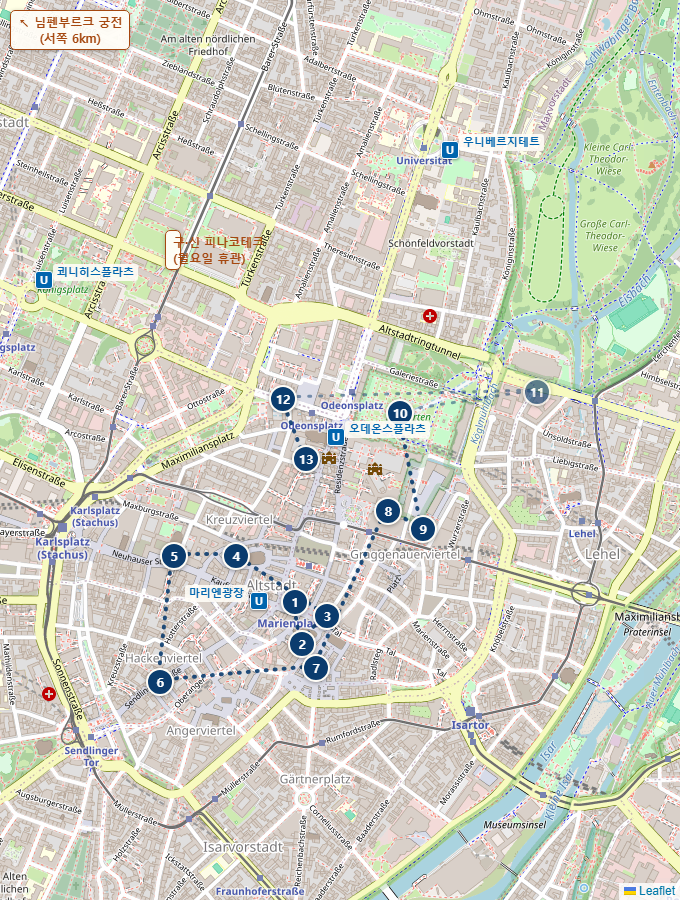
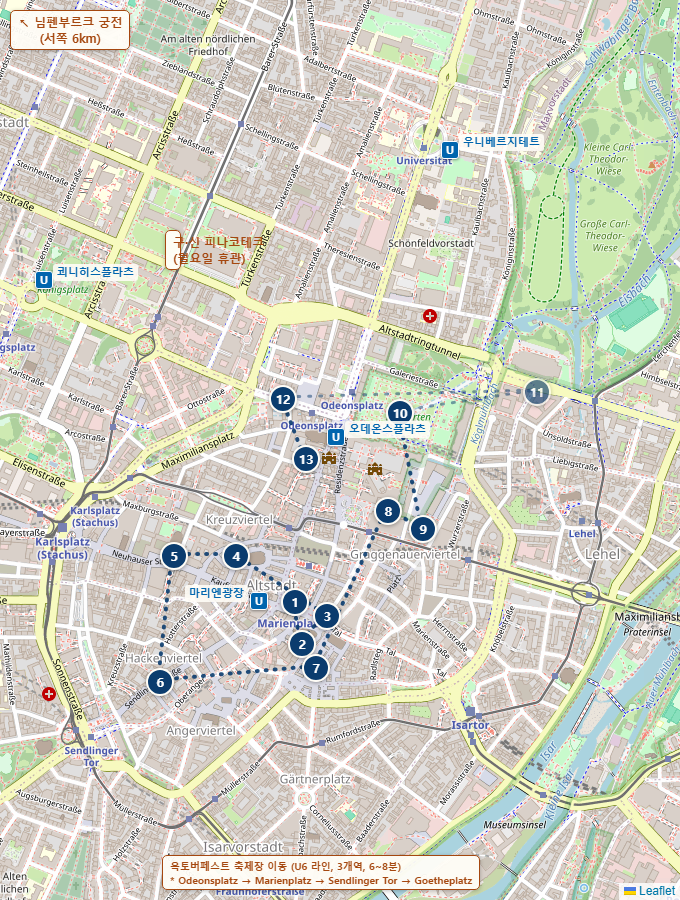
Add Oktoberfest transit callout to Munich map, highlight Glockenspiel showtimes in red

Changed region(s): [[0.2162, 0.9333, 0.7103, 0.9956]]

diff --git a/germany-roadtrip-planner.html b/germany-roadtrip-planner.html
@@ -1760,7 +1760,7 @@ document.addEventListener('DOMContentLoaded', function(){
       <a class="walk-map-link" href="https://www.google.com/maps/dir/?api=1&travelmode=walking&origin=48.1370,11.5758&destination=48.1421,11.5778&waypoints=48.1367%2C11.5756%7C48.1374%2C11.5761%7C48.1387%2C11.5730%7C48.1387%2C11.5703%7C48.1351%2C11.5697%7C48.1355%2C11.5764%7C48.1414%2C11.5786%7C48.1411%2C11.5794%7C48.1428%2C11.5800%7C48.1434%2C11.5859%7C48.1422%2C11.5767" target="_blank" rel="noopener">📍 Google 지도로 도보 코스 보기(마리엔광장역 출발 → 펠트헤른할레 도착) · 총 약 4.3km · 도보 약 56분</a>
       <div class="route-snapshot">
         <div class="route-snapshot-media">
-          <img src="images/routes/muenchen.png?v=8" alt="뮌헨 도보 코스 지도 스냅샷" loading="lazy">
+          <img src="images/routes/muenchen.png?v=9" alt="뮌헨 도보 코스 지도 스냅샷" loading="lazy">
         </div>
         <ol class="route-steps">
         <li><span class="rs-name">마리엔 광장(신시청)</span></li>
@@ -1783,7 +1783,7 @@ document.addEventListener('DOMContentLoaded', function(){
         <div class="landmark-body">
         <h3><span class="stop-num">1</span>마리엔 광장 & 신시청(Neues Rathaus) 글로켄슈필</h3>
         <p class="landmark-desc">뮌헨 구시가 중심 광장이자 1867~1908년 지어진 네오고딕 양식 신시청이 있는 곳. 탑에서 하루 여러 차례 열리는 글로켄슈필 인형극이 명물이며(공연 시간 약 12~15분), 엘리베이터로 전망대까지 올라가면 마리엔광장과 구시가 전망을 볼 수 있습니다.</p>
-        <div class="landmark-meta">글로켄슈필 공연 매일 3회 — <b>11:00 · 12:00 · 17:00</b>(9월 기준)<br>전망대 5–10월 매일 10:00–19:00(11–4월은 평일만 10:00–17:00)<br><span class="landmark-price">성인 약 €6.50(온라인)/€7(현장), 광장 관람 무료</span> · <a href="https://www.muenchen.de/en/sights/munich-glockenspiel" target="_blank" rel="noopener">홈페이지</a> · <a href="https://www.google.com/maps/search/?api=1&query=Neues+Rathaus+Muenchen" target="_blank" rel="noopener">지도</a></div>
+        <div class="landmark-meta">글로켄슈필 공연 매일 3회 — <span style="color:#c0392b;font-weight:800;">11:00 · 12:00 · 17:00</span>(9월 기준)<br>전망대 5–10월 매일 10:00–19:00(11–4월은 평일만 10:00–17:00)<br><span class="landmark-price">성인 약 €6.50(온라인)/€7(현장), 광장 관람 무료</span> · <a href="https://www.muenchen.de/en/sights/munich-glockenspiel" target="_blank" rel="noopener">홈페이지</a> · <a href="https://www.google.com/maps/search/?api=1&query=Neues+Rathaus+Muenchen" target="_blank" rel="noopener">지도</a></div>
         </div>
       </div>
       <div class="landmark-card">

diff --git a/index.html b/index.html
@@ -1760,7 +1760,7 @@ document.addEventListener('DOMContentLoaded', function(){
       <a class="walk-map-link" href="https://www.google.com/maps/dir/?api=1&travelmode=walking&origin=48.1370,11.5758&destination=48.1421,11.5778&waypoints=48.1367%2C11.5756%7C48.1374%2C11.5761%7C48.1387%2C11.5730%7C48.1387%2C11.5703%7C48.1351%2C11.5697%7C48.1355%2C11.5764%7C48.1414%2C11.5786%7C48.1411%2C11.5794%7C48.1428%2C11.5800%7C48.1434%2C11.5859%7C48.1422%2C11.5767" target="_blank" rel="noopener">📍 Google 지도로 도보 코스 보기(마리엔광장역 출발 → 펠트헤른할레 도착) · 총 약 4.3km · 도보 약 56분</a>
       <div class="route-snapshot">
         <div class="route-snapshot-media">
-          <img src="images/routes/muenchen.png?v=8" alt="뮌헨 도보 코스 지도 스냅샷" loading="lazy">
+          <img src="images/routes/muenchen.png?v=9" alt="뮌헨 도보 코스 지도 스냅샷" loading="lazy">
         </div>
         <ol class="route-steps">
         <li><span class="rs-name">마리엔 광장(신시청)</span></li>
@@ -1783,7 +1783,7 @@ document.addEventListener('DOMContentLoaded', function(){
         <div class="landmark-body">
         <h3><span class="stop-num">1</span>마리엔 광장 & 신시청(Neues Rathaus) 글로켄슈필</h3>
         <p class="landmark-desc">뮌헨 구시가 중심 광장이자 1867~1908년 지어진 네오고딕 양식 신시청이 있는 곳. 탑에서 하루 여러 차례 열리는 글로켄슈필 인형극이 명물이며(공연 시간 약 12~15분), 엘리베이터로 전망대까지 올라가면 마리엔광장과 구시가 전망을 볼 수 있습니다.</p>
-        <div class="landmark-meta">글로켄슈필 공연 매일 3회 — <b>11:00 · 12:00 · 17:00</b>(9월 기준)<br>전망대 5–10월 매일 10:00–19:00(11–4월은 평일만 10:00–17:00)<br><span class="landmark-price">성인 약 €6.50(온라인)/€7(현장), 광장 관람 무료</span> · <a href="https://www.muenchen.de/en/sights/munich-glockenspiel" target="_blank" rel="noopener">홈페이지</a> · <a href="https://www.google.com/maps/search/?api=1&query=Neues+Rathaus+Muenchen" target="_blank" rel="noopener">지도</a></div>
+        <div class="landmark-meta">글로켄슈필 공연 매일 3회 — <span style="color:#c0392b;font-weight:800;">11:00 · 12:00 · 17:00</span>(9월 기준)<br>전망대 5–10월 매일 10:00–19:00(11–4월은 평일만 10:00–17:00)<br><span class="landmark-price">성인 약 €6.50(온라인)/€7(현장), 광장 관람 무료</span> · <a href="https://www.muenchen.de/en/sights/munich-glockenspiel" target="_blank" rel="noopener">홈페이지</a> · <a href="https://www.google.com/maps/search/?api=1&query=Neues+Rathaus+Muenchen" target="_blank" rel="noopener">지도</a></div>
         </div>
       </div>
       <div class="landmark-card">
